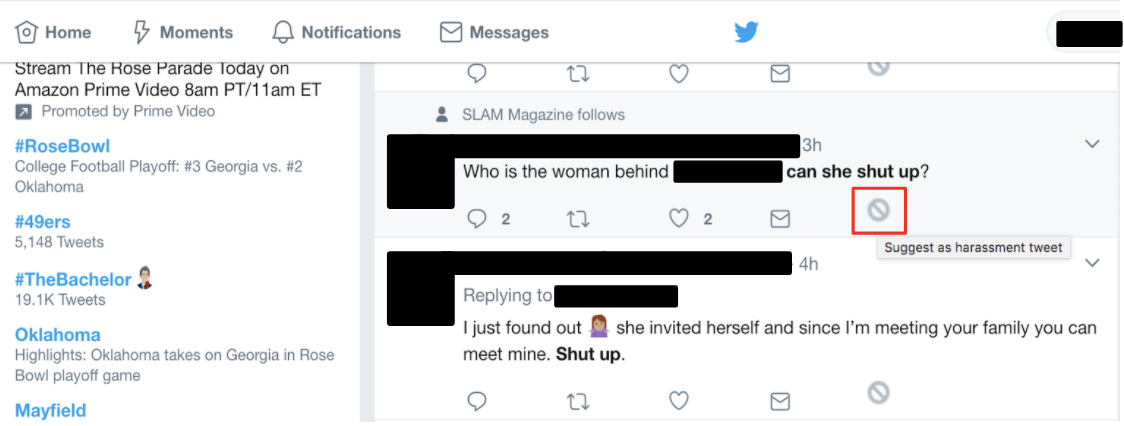
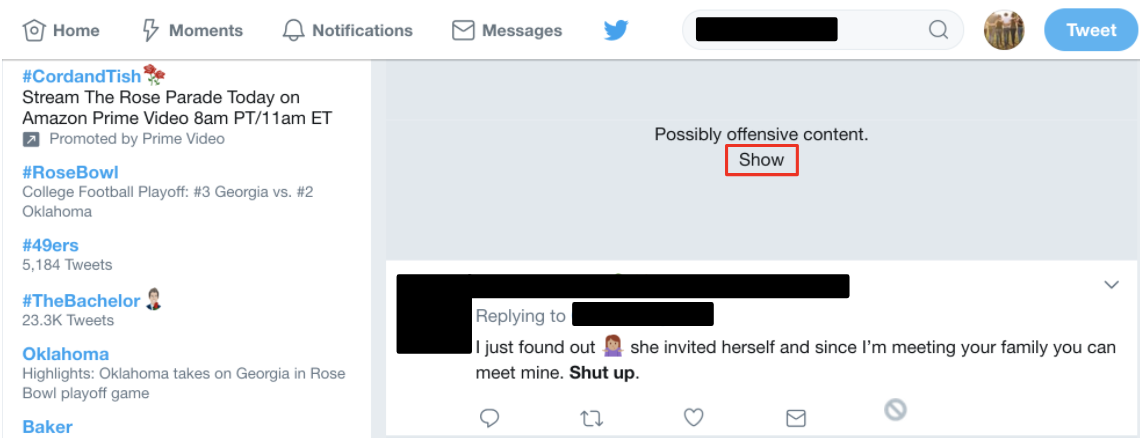
Chrome extension instructions

diff --git a/index.html b/index.html
@@ -450,15 +450,15 @@ function carousel() {
         The <span style="font-weight: bold; font-size: 24px; color: #00802b"><a href='https://chrome.google.com/webstore/detail/gender-harassment-tweets/elahhgfdmmiicibmckogidoijgngjjbi' target="_blank">Gender Harassment Tweets Blocker (Chrome Web Store)</a></span> is the second product.   With positive user experience our top priority, a layer of web security was added before official release in December 2017. Our product had been first demonstrated at UC Berkeley and at Google in April and May 2017, respectively. In contrast to the first product above, women can download this Chrome extension to automatically block tweets that the product predicts to be gender harassment. Based on feedback, women have 3 customizable features to start.
         <br>
         <br>
-        1) As highlighted in the red boxes below, one can adjust "Threshold" to their preferred level. If a user selects 0.60, for instance, then the Chrome extension will block tweets that it predicts to have 60%+ likelihood of harassment. A user can click "Set" to save their threshold, and then refresh the webpage to apply the update. It's essential to refresh the webpage to apply the update. Some women interviewees expressed interest to block the most extreme tweets (e.g., Threshold = 0.90), whereas other women interviewees expressed interest to block a greater share of gender harassment tweets (Threshold = 0.60).
+        1) As highlighted in the red boxes below, one can adjust "Threshold" to their preferred level. If a user selects 0.60, for instance, then the Chrome extension will block tweets that it predicts to have 60%+ likelihood of harassment. A user can click "Set" to save their threshold, and then refresh the webpage to apply the update. Some women interviewees expressed interest to block the most extreme tweets (e.g., Threshold = 0.90), whereas other women interviewees expressed interest to block a greater share of gender harassment tweets (e.g., Threshold = 0.60).
         <center><img src="img/Chrome_Extension_Visual_1of3.png" style="width: 50%;max-height: 50%"></center>
       </p>
       <p class="products-text" style="font-size:20px">
-        2) As highlighted in the red box below, one can click the button to flag tweets as gender harassment that the browser extension didn't block (similar to clicking spam in email). Then the button turns red. Or, one can flag tweets as not gender harassment (similar to restoring email that went to spam incorrectly). Then the button turns gray.
+        2) As highlighted in the red box below, one can click "Show" to unhide a tweet for any reason.
         <center><img src="img/Chrome_Extension_Visual_2of3.png" style="width: 70%;max-height: 60%"></center>
       </p>
       <p class="products-text" style="font-size:20px">
-        3) As highlighted in the red box below, one can click "Show" to unhide a tweet for any reason.
+        3) As highlighted in the red box below, one can click the button to flag tweets as gender harassment that the browser extension didn't block (similar to clicking spam in email). Then the button turns red. Or, one can flag tweets as not gender harassment (similar to restoring email that went to spam incorrectly). Then the button turns gray. The Chrome extension will remember your preference after you refresh the webpage.
         <center><img src="img/Chrome_Extension_Visual_3of3.png" style="width: 70%;max-height: 60%"></center>
       </p>
 
